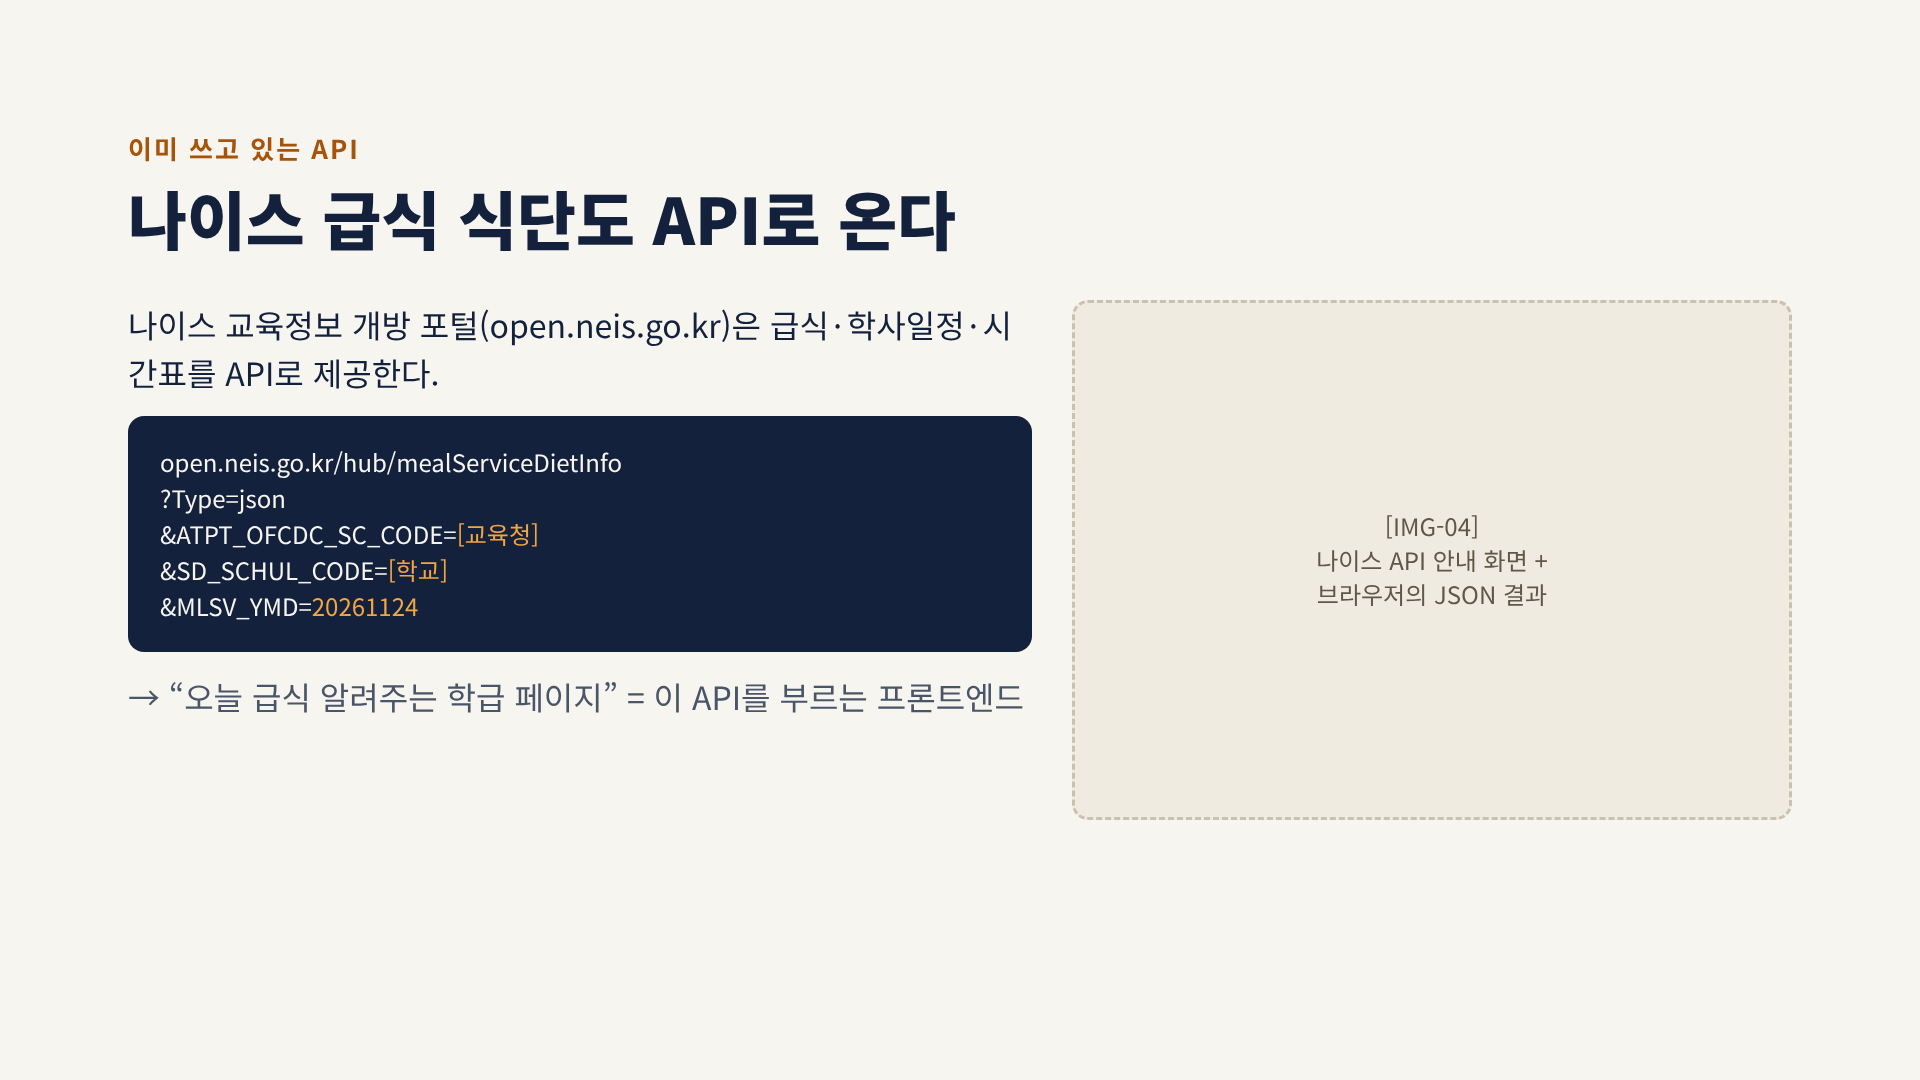
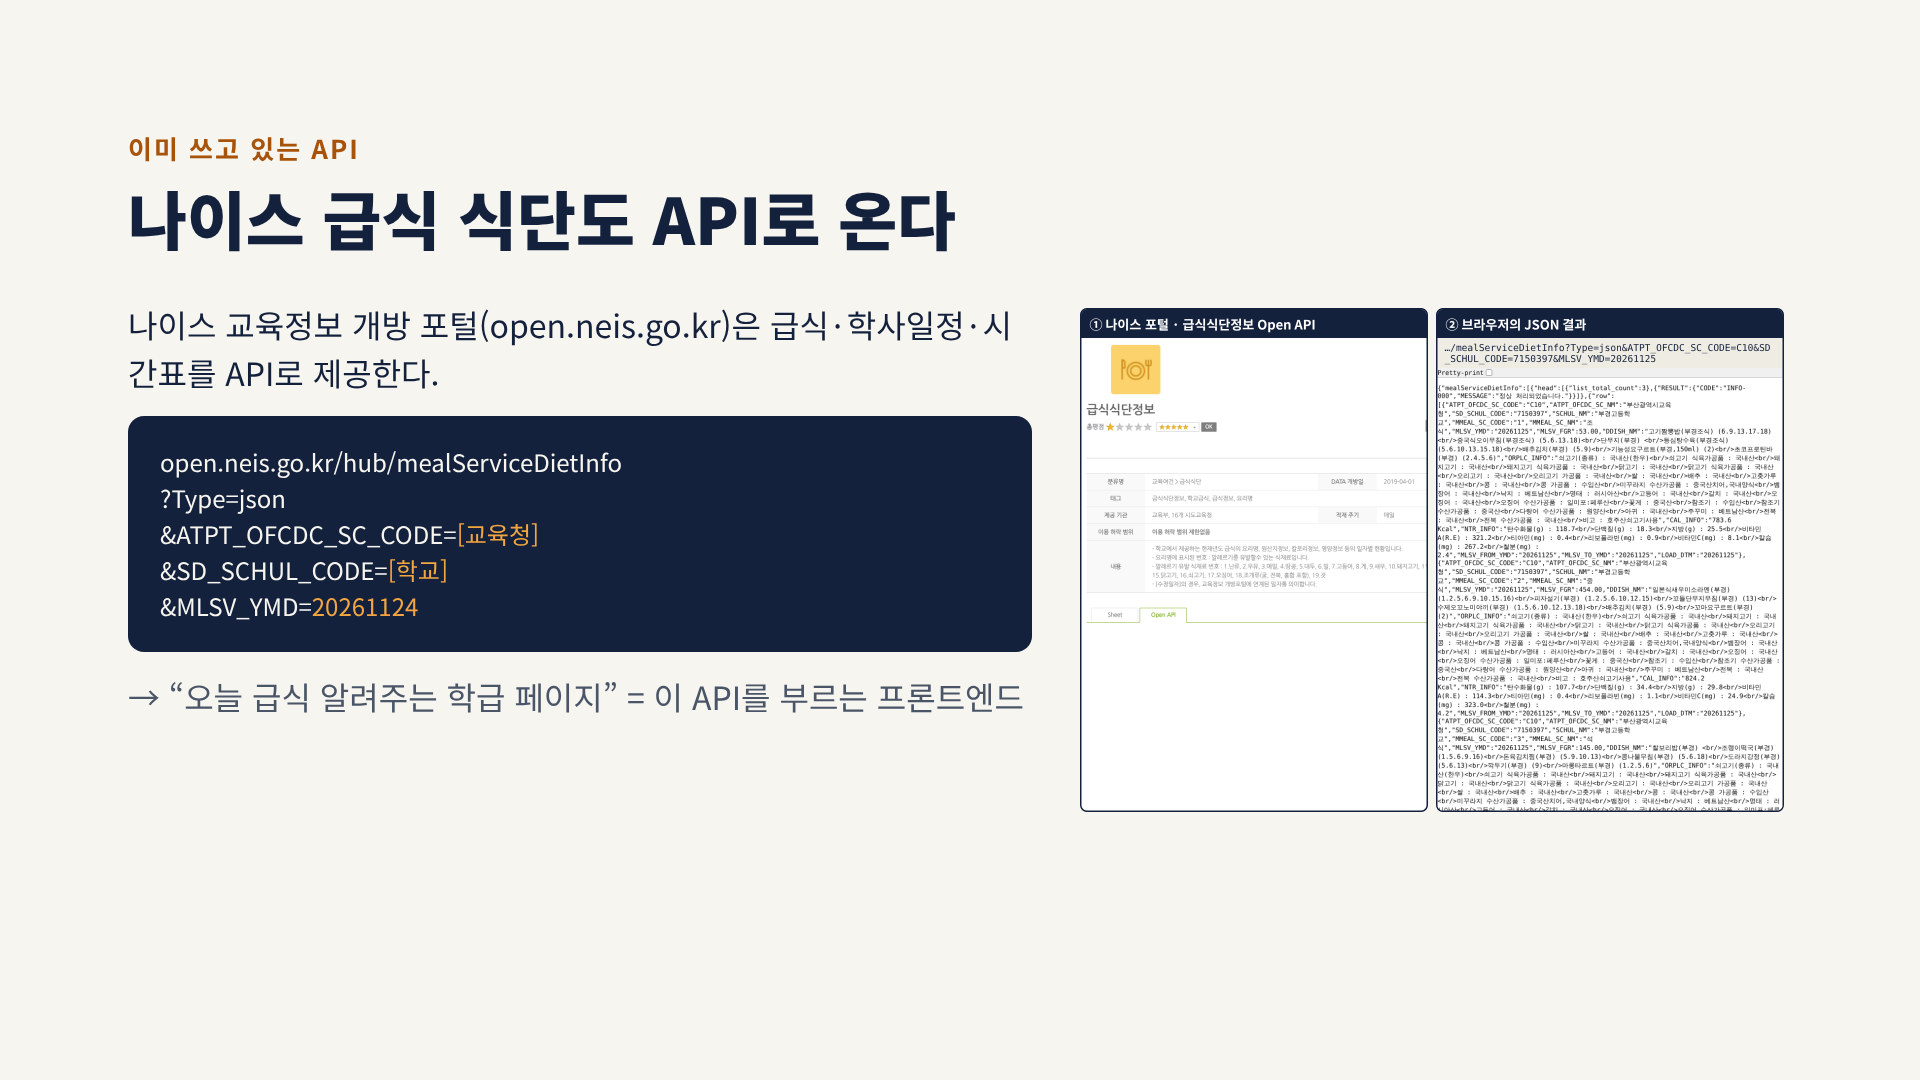
feat: home address card + prompt demo panel; IMG-04 captured by code from the public NEIS portal and live JSON; manifest marks finished captures
Claude-Session: https://claude.ai/code/session_01X9Cu7kXyf2RmgFc2W4fjCr

Changed region(s): [[0.5625, 0.275, 0.9375, 0.7639]]

diff --git a/src/pages/home.ts b/src/pages/home.ts
@@ -10,15 +10,52 @@ const PERIODS = [
   { t: "부록", title: "Microsoft Copilot (PENZ)", start: "s4", items: ["Chat · Teach · Notebooks · Learning Zone"], mods: [["/copilot", "Copilot 가이드"]] as [string, string][] },
 ];
 
+// Lesson plan 3교시 1단계: a one-line prompt vs the 5-element prompt (lesson wording).
+const ONE_LINE = "평가 문제 만들어줘";
+const FIVE = [
+  ["역할", "너는 고등학교 [과목] 교사야."],
+  ["대상", "고[학년] 학생, 학습 수준은 중간이야."],
+  ["과제", "[단원명] 단원의 형성평가 문항 5개를 만들어 줘."],
+  ["조건", "객관식 3개, 서술형 2개. 각 문항에 성취기준을 표시해."],
+  ["형식", "표로: 번호 | 문항 | 정답 | 해설 | 성취기준"],
+] as const;
+
+function demoPanel(): HTMLElement {
+  const body = h("div", { class: "demo-body", "aria-live": "polite" });
+  const btnA = h("button", { type: "button", class: "demo-tab", "aria-pressed": "true" }, "한 줄 프롬프트");
+  const btnB = h("button", { type: "button", class: "demo-tab", "aria-pressed": "false" }, "5요소 프롬프트");
+  const show = (five: boolean) => {
+    btnA.setAttribute("aria-pressed", String(!five)); btnB.setAttribute("aria-pressed", String(five));
+    body.replaceChildren(five
+      ? h("ul", { class: "demo-five" }, FIVE.map(([k, v]) => h("li", {}, h("span", { class: "demo-key" }, k), " ", v)))
+      : h("p", { class: "demo-one" }, ONE_LINE),
+      h("p", { class: "demo-note" }, five ? "요구가 분명해져 결과를 그대로 수업에 쓰기 쉬워져요." : "무엇을, 누구에게, 어떤 형식으로 줄지 AI가 짐작해야 해요."));
+  };
+  btnA.addEventListener("click", () => show(false));
+  btnB.addEventListener("click", () => show(true));
+  show(false);
+  return h("aside", { class: "demo", "aria-label": "프롬프트 비교 미리 보기" },
+    h("div", { class: "demo-bar" }, h("span", { class: "demo-dots", "aria-hidden": "true" }, "● ● ●"), " ChatGPT에 붙여 넣을 지시문"),
+    h("div", { class: "demo-tabs", role: "group", "aria-label": "비교" }, btnA, btnB),
+    body,
+    h("a", { class: "demo-link", href: "/m1", "data-link": "" }, "M1에서 직접 만들어 보기 →"));
+}
+
 export function mount(el: HTMLElement) {
   el.append(
     h("section", { class: "home-hero" },
-      h("h1", {}, "AI, 개념에서 실습까지 — 선생님의 첫 AI 도구 만들기"),
-      h("ul", { class: "home-tags", "aria-label": "연수 정보" }, ["3시간", "고교 교사", "ChatGPT", "PENZ Copilot"].map((t) => h("li", {}, t))),
-      h("div", { class: "btn-row" },
-        h("a", { class: "btn accent", href: "/slides/" }, "강의 슬라이드 열기"),
-        h("a", { class: "btn secondary", href: "/lab", "data-link": "" }, "실습 워크벤치"),
-        h("a", { class: "btn secondary", href: "/guide", "data-link": "" }, "가이드북"))),
+      h("div", { class: "home-hero-text" },
+        h("h1", {}, "AI, 개념에서 실습까지 — 선생님의 첫 AI 도구 만들기"),
+        h("ul", { class: "home-tags", "aria-label": "연수 정보" }, ["3시간", "고교 교사", "ChatGPT", "PENZ Copilot"].map((t) => h("li", {}, t))),
+        h("div", { class: "home-address" },
+          h("p", { class: "home-address-label" }, h("span", { "aria-hidden": "true" }, "📱 "), "연수 자료 주소"),
+          h("p", { class: "home-address-url" }, "teacher-ai-training.netlify.app"),
+          h("p", { class: "home-address-hint" }, "검색창이 아니라 ", h("strong", {}, "브라우저 맨 위 주소창"), "에 그대로 입력하세요. 연수가 끝나도 같은 주소예요.")),
+        h("div", { class: "btn-row" },
+          h("a", { class: "btn accent", href: "/slides/" }, "강의 슬라이드 열기"),
+          h("a", { class: "btn secondary", href: "/lab", "data-link": "" }, "실습 워크벤치"),
+          h("a", { class: "btn secondary", href: "/guide", "data-link": "" }, "가이드북"))),
+      demoPanel()),
     h("h2", {}, "오늘의 흐름"),
     h("ol", { class: "home-periods" }, PERIODS.map((p) => {
       const n = slideNumber(p.start);

diff --git a/src/pages/home.css b/src/pages/home.css
@@ -1,4 +1,24 @@
+.home-hero { display: grid; gap: 18px; align-items: start; margin-bottom: 8px; }
+@media (min-width: 1000px) { .home-hero { grid-template-columns: 1.2fr 1fr; } }
 .home-hero h1 { margin-bottom: .3em; }
+.home-address { background: var(--navy); color: #fff; border-radius: var(--radius); padding: 14px 18px; margin: 12px 0; }
+.home-address p { margin: 0; max-width: none; }
+.home-address-label { font-size: .9rem; color: #d9dde8; }
+.home-address-url { font-size: clamp(1.2rem, 4.2vw, 1.9rem); font-weight: 900; color: var(--orange); word-break: break-all; letter-spacing: -.01em; }
+.home-address-hint { font-size: .85rem; color: #d9dde8; margin-top: 4px; }
+.home-address-hint strong { color: #fff; }
+.demo { background: #fff; border: 2px solid var(--navy); border-radius: var(--radius); overflow: hidden; }
+.demo-bar { background: var(--navy); color: #fff; font-size: .85rem; padding: 8px 12px; }
+.demo-dots { color: var(--orange); letter-spacing: 2px; }
+.demo-tabs { display: flex; gap: 6px; padding: 10px 12px 0; }
+.demo-tab { font: inherit; font-size: .9rem; font-weight: 700; min-height: 44px; padding: 6px 12px; border-radius: 10px; border: 2px solid var(--navy); background: #fff; color: var(--navy); cursor: pointer; }
+.demo-tab[aria-pressed="true"] { background: var(--navy); color: #fff; }
+.demo-body { padding: 10px 14px; min-height: 230px; }
+.demo-one { font-family: var(--mono); background: #eef0f5; border-radius: 10px; padding: 12px; font-size: 1.05rem; }
+.demo-five { list-style: none; padding: 0; margin: 0; display: grid; gap: 6px; font-size: .92rem; }
+.demo-key { display: inline-block; min-width: 3em; background: var(--orange); color: var(--navy); font-weight: 900; border-radius: 6px; padding: 0 6px; text-align: center; }
+.demo-note { color: var(--text-soft); font-size: .88rem; margin: 10px 0 0; }
+.demo-link { display: block; padding: 10px 14px 14px; font-weight: 700; }
 .home-tags { list-style: none; padding: 0; margin: 0 0 8px; display: flex; flex-wrap: wrap; gap: 6px; }
 .home-tags li { background: var(--navy); color: #fff; border-radius: 999px; padding: 2px 12px; font-size: .9rem; font-weight: 700; }
 .home-periods { list-style: none; padding: 0; margin: 12px 0; display: grid; gap: 14px; }

diff --git a/public/slides/sw.js b/public/slides/sw.js
@@ -1,6 +1,6 @@
 // generated by scripts/build-slides.mjs — offline cache for /slides only (never /api)
-const CACHE = "slides-61dfd927ce4a";
-const PRECACHE = ["/slides/","/slides/fonts.css","/slides/assets/IMG-01_cover-hero.png","/slides/assets/IMG-02a_chatbot.svg","/slides/assets/IMG-02b_workflow.svg","/slides/assets/IMG-02c_agent.svg","/slides/assets/IMG-03_restaurant.png","/slides/assets/VID-01_submit-flow.mp4","/slides/assets/VID-01_poster.png","/slides/assets/IMG-05a_chat.svg","/slides/assets/IMG-05b_work.svg","/slides/assets/IMG-05c_code.svg","/slides/assets/IMG-09a_manual.svg","/slides/assets/IMG-09b_usbc.svg","/slides/assets/IMG-13_skill-folder.svg","/slides/assets/IMG-14_logos-row.png","/slides/assets/IMG-16_classroom.png","/slides/assets/IMG-17_quiz-phone.png","/slides/fonts/noto-sans-kr-400.woff2","/slides/fonts/noto-sans-kr-700.woff2","/slides/fonts/noto-sans-kr-900.woff2"];
+const CACHE = "slides-6bb8787a6522";
+const PRECACHE = ["/slides/","/slides/fonts.css","/slides/assets/IMG-01_cover-hero.png","/slides/assets/IMG-02a_chatbot.svg","/slides/assets/IMG-02b_workflow.svg","/slides/assets/IMG-02c_agent.svg","/slides/assets/IMG-03_restaurant.png","/slides/assets/VID-01_submit-flow.mp4","/slides/assets/VID-01_poster.png","/slides/assets/IMG-04_neis-api.png","/slides/assets/IMG-05a_chat.svg","/slides/assets/IMG-05b_work.svg","/slides/assets/IMG-05c_code.svg","/slides/assets/IMG-09a_manual.svg","/slides/assets/IMG-09b_usbc.svg","/slides/assets/IMG-13_skill-folder.svg","/slides/assets/IMG-14_logos-row.png","/slides/assets/IMG-16_classroom.png","/slides/assets/IMG-17_quiz-phone.png","/slides/fonts/noto-sans-kr-400.woff2","/slides/fonts/noto-sans-kr-700.woff2","/slides/fonts/noto-sans-kr-900.woff2"];
 self.addEventListener("install", (e) => { e.waitUntil(caches.open(CACHE).then((c) => c.addAll(PRECACHE)).then(() => self.skipWaiting())); });
 self.addEventListener("activate", (e) => { e.waitUntil(caches.keys().then((ks) => Promise.all(ks.filter((k) => k.startsWith("slides-") && k !== CACHE).map((k) => caches.delete(k)))).then(() => self.clients.claim())); });
 self.addEventListener("fetch", (e) => {

diff --git a/public/slides/index.html b/public/slides/index.html
@@ -252,7 +252,7 @@ html,body{margin:0;height:100%;background:#0d1730;font-family:'Noto Sans KR',Ari
 <p class="code sm">open.neis.go.kr/hub/mealServiceDietInfo<br>  ?Type=json<br>  &amp;ATPT_OFCDC_SC_CODE=<span class="c">[교육청]</span><br>  &amp;SD_SCHUL_CODE=<span class="c">[학교]</span><br>  &amp;MLSV_YMD=<span class="c">20261124</span></p>
 <p class="sub" style="margin-top:20px">→ “오늘 급식 알려주는 학급 페이지” = 이 API를 부르는 프론트엔드</p>
 </div>
-<div class="ph" data-asset="IMG-04" title="나이스 API 안내 화면 + 브라우저의 JSON 결과" style="width:720px;height:520px;"><p>[IMG-04]<br>나이스 API 안내 화면 +<br>브라우저의 JSON 결과</p></div>
+<div data-asset="IMG-04" title="나이스 API 안내 화면 + 브라우저의 JSON 결과" style="width:720px;height:520px;"><img src="/slides/assets/IMG-04_neis-api.png" alt="나이스 교육정보 개방 포털 급식 API 안내 화면 + 브라우저에 띄운 JSON 결과(2컷 합성)" style="width:100%;height:100%;object-fit:contain;display:block"></div>
 </div>
 
 </section>
